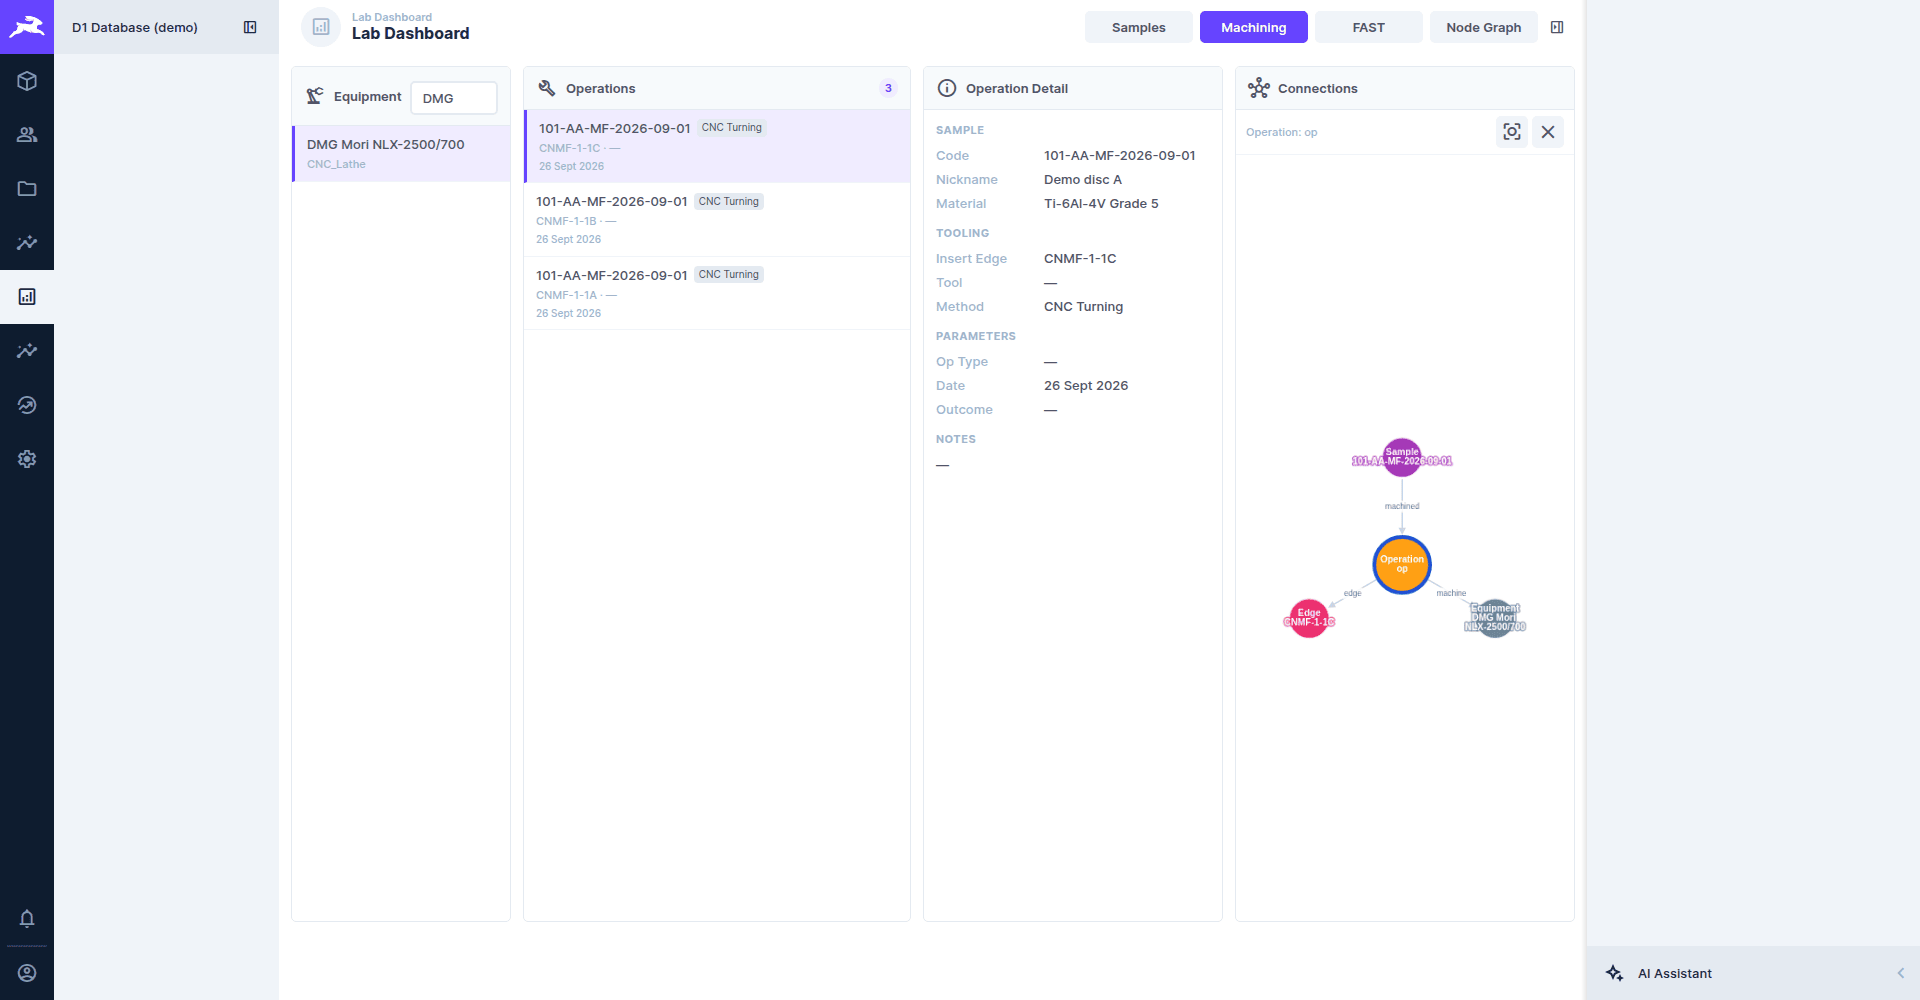
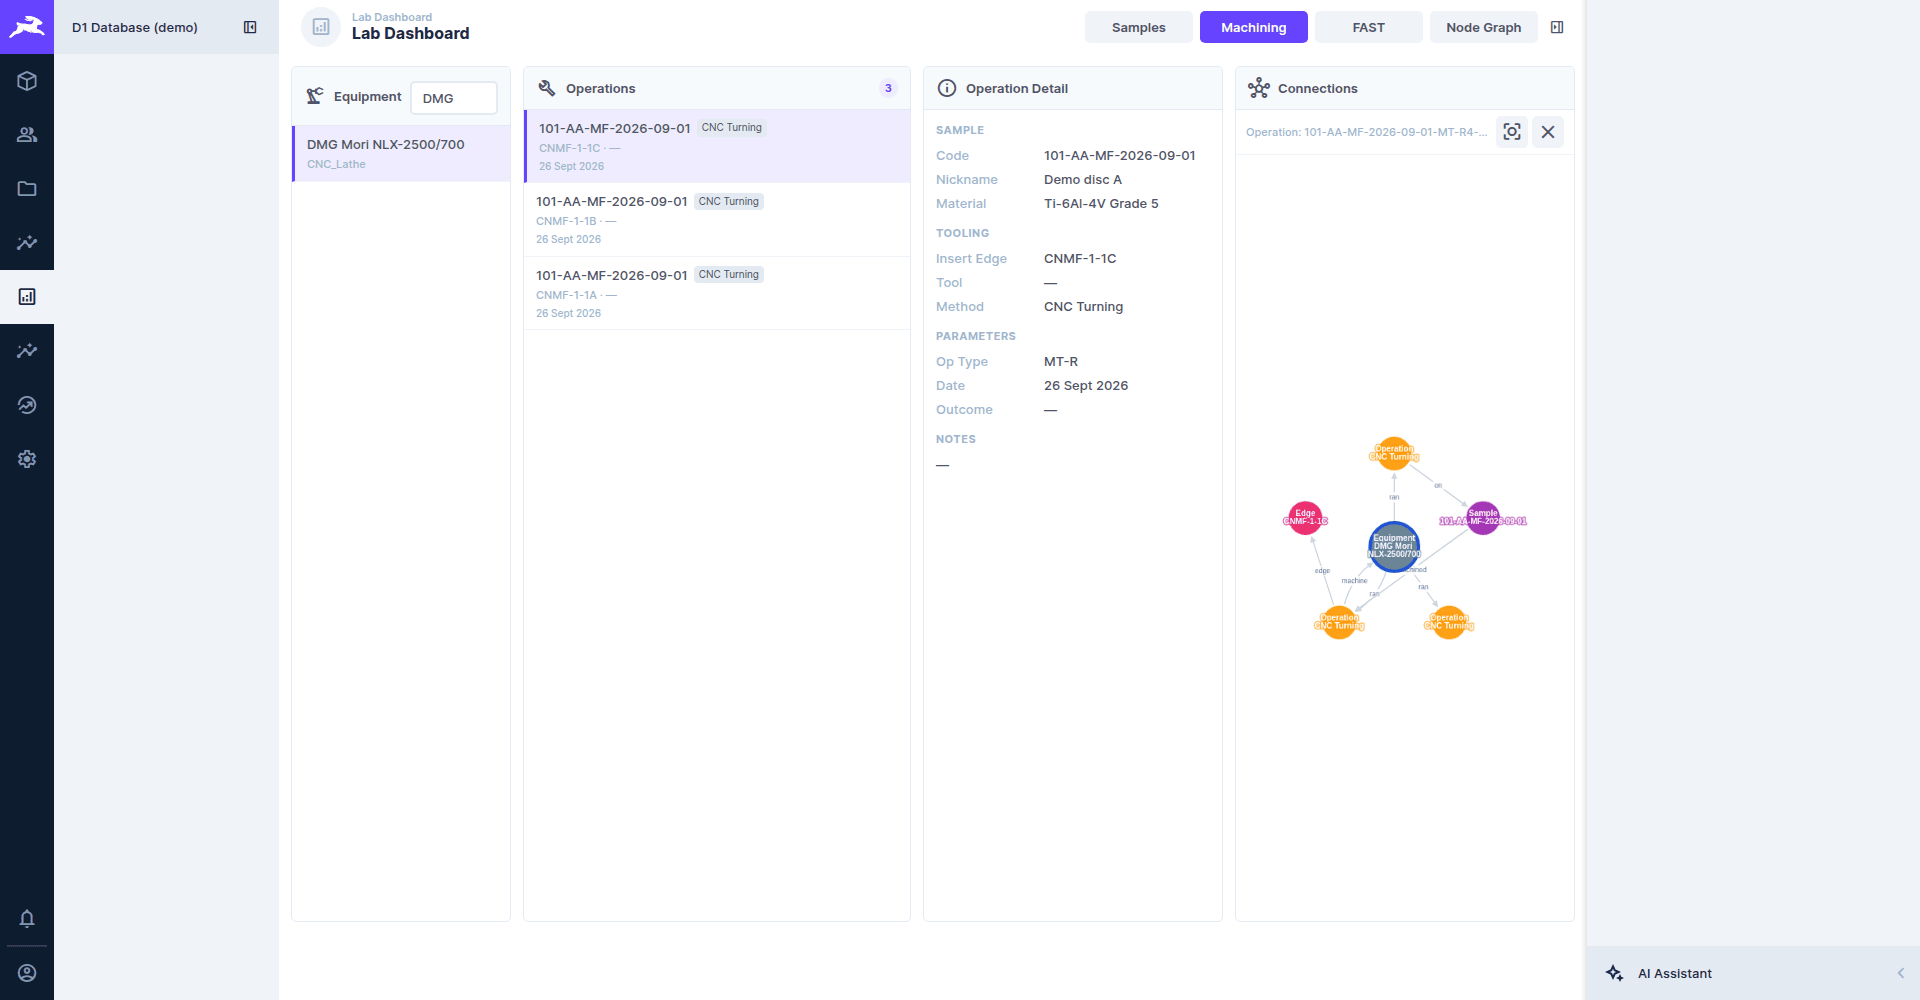
docs(wiki): update for the follow-up fixes
Move the now-fixed issues to the fixed list, document the Node Graph
search, and refresh the Lab Dashboard and Local Captures screenshots.

Claude-Session: https://claude.ai/code/session_01JA77R5Fw5aJ2SmyXzoDZTy

Changed region(s): [[0.6562, 0.434, 0.8125, 0.651], [0.6875, 0.124, 0.75, 0.155], [0.5312, 0.341, 0.5625, 0.372]]

diff --git a/docs/wiki/database/known-issues.md b/docs/wiki/database/known-issues.md
@@ -13,16 +13,17 @@ by hand in the Directus UI.
 | The Directus **module bar was empty** on a freshly configured database: `configure_directus.sql` wrote the entries without `"enabled": true`, which Directus requires | the script now writes enabled entries, including Force Analysis and FAST Analysis, and repairs a bar written by the old version |
 | **Lab Dashboard → Samples** showed no operations and no test sessions for any sample: it sorted test sessions by `test_date`, which does not exist (the column is `session_date`), and the failed request took the operations list down with it | the query and the date display use `session_date` |
 | **Force App: the live FFT / Power panel stayed blank** until a channel chip was clicked | `LiveFft.vue` now tracks spectrum updates |
+| **Lab Dashboard Node Graph** asked for fields that do not exist (`manufacturing_operations.operation_type`, `tool_boxes.box_code`, `insert_types.insert_type_code`), so expanding a sample, machine, edge, insert or box returned nothing; the full-page Node Graph tab also had no search box, so there was nothing to click | the graph uses the real columns (operations are labelled by method, and searched by code), requests the ids it needs to draw material and project nodes, and the Node Graph tab gets its search box |
+| **Force App Local Captures showed "upload state unknown"** for every capture, so its **Upload** buttons never appeared: the check filtered on `recorded_metadata.capture_id`, a key inside a JSON field, which Directus refuses | the app fetches the candidate rows (bounded by `created_at`) and matches capture ids itself |
+| **Force App: editing an uploaded capture's metadata** failed to load its database row: it asked for `people.first_name`/`last_name`, `equipment.name` and `tools.name` | it uses `full_name`, `equipment_name` and `tool_name` |
+| **Two extension lock files were stale** (`d1-material-inherit`, `d1-report`), so `npm ci` failed with `EUSAGE` | refreshed (only the missing optional `@emnapi/*` entries change) |
+| **Seeded machines had no capabilities** (`db/seeds/001_reference_data.sql`), so on a dev stack the machine picker offered none of them | the seed sets them |
 
 ## Open
 
 | Issue | Effect | Workaround |
 |---|---|---|
-| **Lab Dashboard Node Graph** requests `manufacturing_operations.operation_type`, which does not exist | expanding a sample, machine or edge in the connection graph returns nothing (403 in the browser console) | use the record's own related lists |
 | **Lab Member has no `directus_files` access** and cannot create `machining_force_analysis` rows | a Lab Member cannot save a cut from the Force App (the operation row is created, then the upload fails), and cannot open live caches in Force Analysis | record as a Lab Admin. Grant the permissions in a migration. See [Roles](roles-and-permissions.md#what-lab-member-cannot-do-as-configured-in-the-repository). |
 | **Force App cuts are never host-processed**: the orchestrator only handles `.mat` files indexed from the archive | no stored FFT, FRM *Figure*, *Full* octree or diagnostics for cuts saved from the app | copy the capture into the archive and index it. See [Force data](force-data.md#two-ways-in). |
-| **Force App: "upload state unknown"** on every local capture: the check filters on `recorded_metadata.capture_id`, a key inside a JSON field, which Directus refuses | the per-capture **Upload** buttons never appear | upload from the save dialog, or store the capture id in a real column |
 | **Migrations 057 and 066 fail on a fresh real Directus database** (foreign keys to rows that the configure scripts create later) | a from-scratch rebuild stops part-way | see the [developer guide](developer-guide.md#problems-you-will-hit) |
 | **`configure_directus.sql` removes migration-added metadata** for the core collections | re-applying it loses about a hundred field interfaces and relations; `fast_recipes` then errors | see the [developer guide](developer-guide.md#problems-you-will-hit) |
-| **Two extension lock files are stale** (`d1-material-inherit`, `d1-report`) | `npm ci` fails with `EUSAGE` | `npm install` and commit the lock file |
-| **Seeded machines have no capabilities** (`db/seeds/001_reference_data.sql`) | on a dev stack the machine picker offers none of them | set `equipment.capabilities` |

diff --git a/docs/wiki/database/developer-guide.md b/docs/wiki/database/developer-guide.md
@@ -49,8 +49,8 @@ demo stack for this wiki:
 | migration `20260703000066_lab_member_people_permissions` | grants permissions to the Lab Member policy, which only `configure_users_and_policies.sql` creates | apply the roles/policies part of that script before this migration |
 | `scripts/configure_directus.sql` | re-inserts the field and relation metadata for the core collections from scratch, which removes the interfaces and relations later migrations registered (about 100 fields and 14 relations; `fast_recipes` then errors because its `runs` relation is gone) | build a second, migrations-only database and copy back the `directus_fields` / `directus_relations` rows that configure removed |
 | `scripts/configure_directus.sql` (fixed in this change) | wrote the module bar without `"enabled": true`, so the left-hand module rail was empty | fixed: re-run the script's section 0 |
-| `core/extensions/d1-material-inherit`, `d1-report` | `package-lock.json` is out of sync with `package.json`, so `npm ci` fails (`EUSAGE`) | `npm install` (and commit the refreshed lock file) |
-| `db/seeds/001_reference_data.sql` | the seeded machines have no `capabilities`, so the machine picker offers none of them | set `equipment.capabilities` (e.g. `machining` for the lathe, `sintering` for the FAST press) |
+| `core/extensions/d1-material-inherit`, `d1-report` (fixed in this change) | `package-lock.json` lacked the optional `@emnapi/*` packages, so `npm ci` failed (`EUSAGE`) | fixed: the lock files are refreshed |
+| `db/seeds/001_reference_data.sql` (fixed in this change) | the seeded machines had no `capabilities`, so the machine picker offered none of them | fixed: the seed sets them; on an existing dev database, set `equipment.capabilities` by hand |
 
 ### Without Docker
 

diff --git a/docs/wiki/force-app/captures-and-recovery.md b/docs/wiki/force-app/captures-and-recovery.md
@@ -46,13 +46,9 @@ Other places the app keeps data:
 For every capture that is **not uploaded**, an **Upload** button appears, and **Upload N unsynced**
 uploads them all.
 
-> **Known issue (v0.1.30): every capture shows "upload state unknown".** The check asks
-> Directus for operations whose `recorded_metadata.capture_id` matches. Directus does not support
-> filtering on a key inside a JSON field, so it refuses the query with *403 You don't have
-> permission to access field "capture_id"*, even for administrators. As a result the Upload
-> buttons never appear. Until that is fixed, upload a forgotten capture from the save dialog
-> (**Open in Plot → Retry upload**), or ask an administrator to check in Directus whether it is
-> already there.
+The app works out the upload state by matching each capture's id against the `capture_id` that
+every upload stamps into the operation's `recorded_metadata`. In v0.1.30 and earlier that check
+always failed, so every capture showed *upload state unknown* and no Upload buttons appeared.
 
 **Edit** (or clicking a capture's name) corrects the metadata recorded with a capture, for
 example a sample that was forgotten at the end of a cut:

diff --git a/docs/wiki/database/dashboards-and-reports.md b/docs/wiki/database/dashboards-and-reports.md
@@ -34,12 +34,12 @@ diameter, atmosphere, recipe, batch). For the full traces, use [FAST Analysis](f
 
 ### Node Graph
 
-A full-screen version of the connections graph. Click any item in the other tabs, or search for
-one, to explore outward from it.
+A full-screen version of the connections graph. Search for a sample, operation (by its code),
+machine, insert, edge or box, pick it from the results, and the graph draws its neighbours:
+material and project, operations and tests, machine, tooling, parent samples. Click any node to
+explore outward from it. Each exploration adds to the graph; ✕ clears it and ⌖ re-fits it.
 
-> **Known issue:** the graph's lookups ask Directus for an `operation_type` field that does not
-> exist, so expanding a sample, a machine or an edge returns nothing. Operations and FAST runs
-> still draw their own neighbours. See [Known issues](known-issues.md).
+![Lab Dashboard, Node Graph tab](../images/database/lab-node-graph.png)
 
 ## Ask the Database
 

diff --git a/docs/wiki/force-app/troubleshooting.md b/docs/wiki/force-app/troubleshooting.md
@@ -43,7 +43,9 @@ disk. Find it in [Local Captures](captures-and-recovery.md#local-captures).
 
 ### Every local capture says "upload state unknown"
 
-A known v0.1.30 bug. See [Local captures](captures-and-recovery.md#local-captures).
+The app could not ask the database which captures are uploaded: check the *Directus* row in the
+Connectivity Doctor, and that you are signed in. (In v0.1.30 and earlier this happened on every
+PC because of a bug; see [Local captures](captures-and-recovery.md#local-captures).)
 
 ### Plot: Power / Spectro / Waterfall say "failed" or stay empty
 
